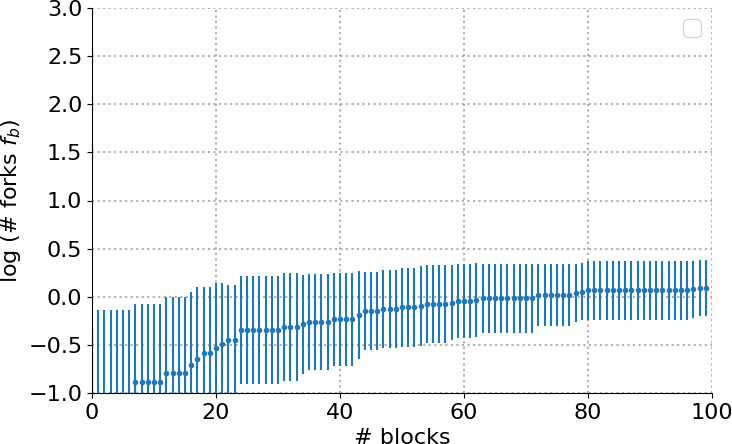
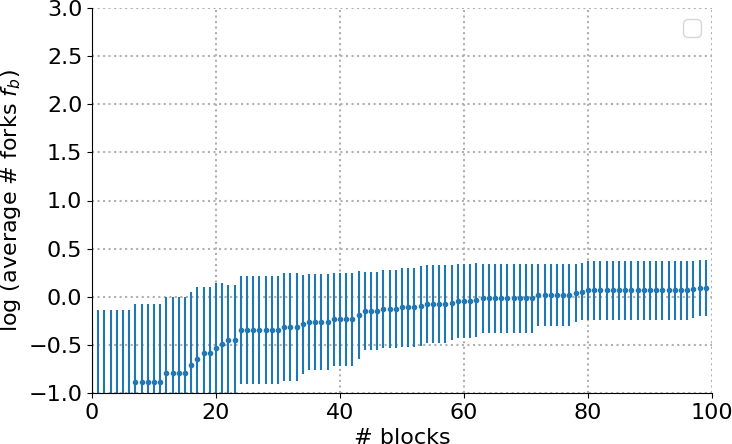
forks plots updated

Changed region(s): [[0.0, 0.1464, 0.0301, 0.7613]]

diff --git a/evaluation/forks_poet.py b/evaluation/forks_poet.py
@@ -14,7 +14,7 @@ fig, ax = plt.subplots(figsize=(8,5))
 ax.errorbar(x, np.log10(data.mean(axis=1)), yerr=np.log10(data.std(axis=1)*1.96/np.sqrt(30)) , fmt='.')
 
 plt.xlabel('# blocks', fontsize=16)
-plt.ylabel('log (# forks ' + '$f_b$)', fontsize=16)
+plt.ylabel('log (average # forks ' + '$f_b$)', fontsize=16)
 plt.grid(linestyle=':',linewidth=1.5)
 
 plt.tick_params(axis='both', which='major', labelsize=16)

diff --git a/evaluation/forks.py b/evaluation/forks.py
@@ -15,7 +15,7 @@ fig, ax = plt.subplots(figsize=(8,5))
 ax.errorbar(x, np.log10(data.mean(axis=1)), yerr=np.log10(data.std(axis=1)*1.96/np.sqrt(30)) , fmt='.')
 
 plt.xlabel('# blocks', fontsize=16)
-plt.ylabel('log (# forks ' + '$f_b$)', fontsize=16)
+plt.ylabel('log (average # forks ' + '$f_b$)', fontsize=16)
 plt.grid(linestyle=':',linewidth=1.5)
 
 
